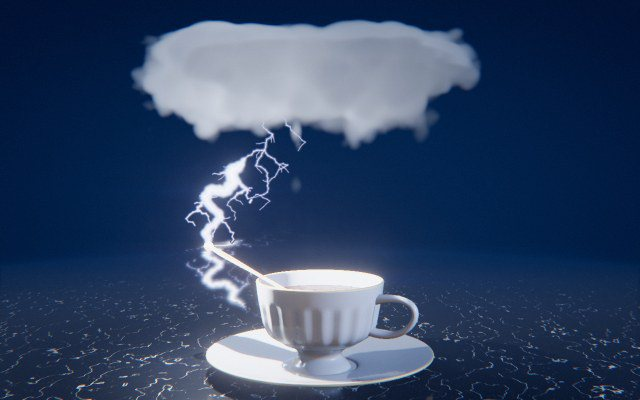
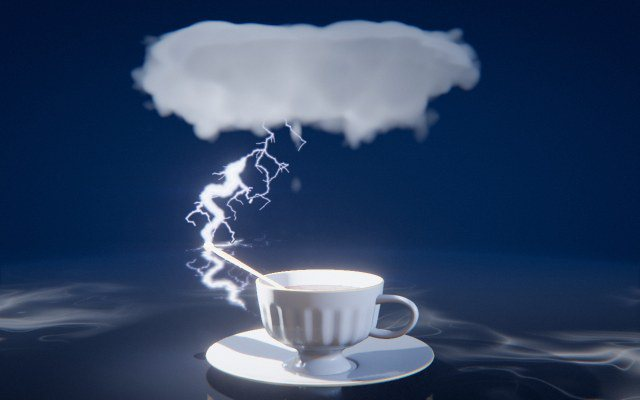
Bolt : supports écrits pour eux, plus de ligne sous le nuage
- sept shaders de table (scene/table.js) : lin à fils irréguliers et plis de
  repassage, marbres à veines en crête, zinc oxydé, laque, natte de jonc,
  ardoise en feuillets, velours ; la table n'évalue que la lampe et l'éclair
- volume : même extinction dans les deux domaines de marche (la couture
  dessinait un trait sous le nuage), légèreté de la colonne dans la densité
- panneau, README, page de documentation, concept et captures à jour

diff --git a/bolt/src/scene/table.js b/bolt/src/scene/table.js
@@ -1,0 +1,177 @@
+// Les supports : sept matières de table écrites pour le plan large et pour le
+// gros plan, chacune avec un relief à plusieurs échelles et ce qui la fait
+// reconnaître — les fils irréguliers et les plis de repassage d'une nappe de
+// lin, les veines d'un marbre (un bruit « en crête » déformé, et non des
+// cellules), l'oxydation et les ronds de verre d'un zinc, les joncs et les
+// liages d'une natte, les feuillets d'une ardoise, le sens du poil d'un
+// velours, la peau d'une laque.
+//
+// Tout est calculé dans le repère du monde (la table ne bouge pas), à partir
+// du volume de bruit commun ; chaque détail s'efface avant la fréquence du
+// pixel (aa), sinon il se replie en moiré au loin. Unité : 1 = 10 cm.
+//
+// Réglages : couleur, seconde couleur et rugosité viennent de la recette
+// (uniformes) ; la nature du support (kind) choisit le shader.
+import * as THREE from 'three/webgpu';
+import {
+  uniform, lights, positionWorld, normalViewGeometry, vec2, vec3, vec4, float, mix, smoothstep, length, fract, floor, sin, cos, abs, exp, step, fwidth, hash, dot, max as tMax, min as tMin,
+} from 'three/tsl';
+import { noise, noise2, fbm, perturb, stableVelocity, G } from '../../../shared/scene/materials.js';
+
+const PI = Math.PI;
+
+export const TABLE_KINDS = ['cloth', 'velvet', 'marble', 'metal', 'lacquer', 'mat', 'slate'];
+
+export function tableUniforms(fin) {
+  return { color: uniform(new THREE.Color(fin.color)), color2: uniform(new THREE.Color(fin.color2)), rough: uniform(fin.rough) };
+}
+export function applyTable(U, fin) { U.color.value.set(fin.color); U.color2.value.set(fin.color2); U.rough.value = fin.rough; }
+
+// lightsOf : les lumières que la table évalue (la lampe et l'éclair ; pas le contre-jour, qui laverait les ombres)
+export function buildTableMaterial(kind, U, lightsOf = null) {
+  const m = new THREE.MeshPhysicalNodeMaterial({ side: THREE.DoubleSide });
+  const p = positionWorld.xz, p3 = vec3(positionWorld.x, positionWorld.z, 0.37);
+  const pf = length(fwidth(p)).toVar('tableFootprint');
+  const aa = (freq) => smoothstep(0.6, 0.15, pf.mul(freq)); // fréquence (cycles / unité) → atténuation
+  const N0 = normalViewGeometry;
+  // hachage d'une cellule 2D
+  const h21 = (c, s = 0) => hash(c.x.mul(127.1).add(c.y.mul(311.7)).add(s));
+  // Une valeur par fil (ou par jonc, par trait de brosse), qui varie lentement
+  // le long du fil. Le volume de bruit est périodique (4 cellules) : lu
+  // directement à 46 fils par unité, il répéterait le même motif tous les
+  // quatre fils. Chaque fil lit donc le bruit à un décalage tiré de son rang.
+  const thread = (across, along, salt) => { const id = floor(across); return noise(vec3(along.add(hash(id.add(salt)).mul(37)), hash(id.add(salt + 1)).mul(4), salt * 0.31)); };
+  // semis : un point par cellule, à une place tirée ; renvoie 1 au cœur du point
+  const speck = (f, r, salt) => { const q = p.mul(f), c = floor(q); return smoothstep(r, r * 0.3, length(fract(q).sub(vec2(h21(c, salt), h21(c, salt + 2)).mul(0.6).add(0.2)))); };
+  let color = vec3(U.color), rough = float(U.rough), metal = float(0), H = float(0);
+
+  switch (kind) {
+    case 'cloth': {
+      // Lin : armure toile de 2,5 fils au millimètre, fils irréguliers (les
+      // « flammes » du lin, visibles de loin en traits plus clairs ou plus
+      // sombres dans les deux sens), plis de repassage, et les ondulations
+      // molles d'une nappe posée.
+      const F = 250;
+      const u = p.x.mul(F), v = p.y.mul(F);
+      const over = step(0.5, fract(floor(u).add(floor(v)).mul(0.5))); // dessus / dessous
+      const warp = sin(fract(u).mul(PI)), weft = sin(fract(v).mul(PI));
+      const weave = mix(warp.mul(weft.mul(0.4).add(0.6)), weft.mul(warp.mul(0.4).add(0.6)), over);
+      // flammes : chaque fil a son épaisseur, qui varie lentement le long du fil
+      const s1 = thread(p.y.mul(46), p.x.mul(0.9), 3), s2 = thread(p.x.mul(46), p.y.mul(0.9), 11);
+      const t1 = thread(p.y.mul(17), p.x.mul(0.5), 21), t2 = thread(p.x.mul(17), p.y.mul(0.5), 27);
+      const slub = s1.max(0).pow(2).add(s2.max(0).pow(2)).mul(aa(46)).add(t1.add(t2).mul(0.35).mul(aa(17)));
+      const tone = fbm(p3.mul(0.6), 3); // nuances larges (le tissu n'est jamais uni)
+      // plis de repassage : deux arêtes douces qui se croisent, hors du centre
+      const crease = (d) => exp(d.div(0.035).pow2().negate());
+      const cr = crease(p.x.sub(1.35)).add(crease(p.y.add(1.6))).mul(0.5);
+      const fold = fbm(p3.mul(0.33).add(4.1), 3);
+      H = weave.mul(0.0035).mul(aa(F)).add(slub.mul(0.006)).add(cr.mul(0.03)).add(fold.mul(0.07));
+      color = mix(U.color, U.color2, weave.oneMinus().mul(0.55).mul(aa(F))).mul(slub.mul(0.2).add(1)).mul(tone.mul(0.09).add(1)).mul(cr.mul(0.08).add(1));
+      rough = U.rough;
+      m.sheenNode = vec3(1).mul(0.3); m.sheenRoughnessNode = float(0.7);
+      break;
+    }
+    case 'velvet': {
+      // Velours : le poil couché par endroits (les traces de main), qui change
+      // le lustre plus que la teinte ; grain du poil au pixel.
+      const nap = fbm(p3.mul(0.7), 3), stroke = noise(vec3(p.x.mul(0.5).add(p.y.mul(1.6)), p.y.mul(0.3), 2.7));
+      const lay = smoothstep(-0.5, 0.6, nap.mul(0.6).add(stroke.mul(0.5)));
+      const grain = noise2(p3.mul(180)).mul(aa(180));
+      H = grain.mul(0.002).add(lay.mul(0.006));
+      color = mix(U.color2, U.color, lay.mul(0.8).add(0.2)).mul(grain.mul(0.08).add(1));
+      rough = float(0.95);
+      m.sheenNode = mix(vec3(0.3), vec3(0.6), lay).mul(vec3(0.82, 0.86, 1)); m.sheenRoughnessNode = mix(float(0.55), float(0.3), lay);
+      break;
+    }
+    case 'marble': {
+      // Marbre : des nuages de fond, de grandes veines (un bruit « en crête »,
+      // 1 − |n|, élevé à une puissance : des lignes fines et continues ; la
+      // lecture est déformée par un fBm : elles serpentent et se rejoignent),
+      // des veinules, des cristaux à peine visibles, un poli qui n'est pas
+      // parfait (les veines sont un peu plus mates).
+      const wq = vec3(fbm(p3.mul(0.55).add(3.3), 3), fbm(p3.mul(0.55).add(8.7), 3), 0).mul(0.9);
+      const q = p3.mul(0.42).add(wq);
+      const ridge = (n) => abs(n).oneMinus();
+      const big = ridge(noise(q)).pow(11), mid = ridge(noise2(q.mul(2.1).add(1.7))).pow(18).mul(0.7), fine = ridge(noise(q.mul(5.3).add(4.2))).pow(30).mul(0.3).mul(aa(6));
+      // (les veines s'interrompent : elles ne courent pas d'un bord à l'autre)
+      const gate = smoothstep(-0.15, 0.3, fbm(p3.mul(0.3).add(11), 2));
+      const vein = big.add(mid).add(fine).mul(gate).clamp(0, 1);
+      const cloud = fbm(p3.mul(0.9).add(wq), 3).mul(0.5).add(0.5);
+      const xtal = noise2(p3.mul(140)).mul(0.5).add(0.5).mul(aa(140));
+      color = mix(U.color.mul(cloud.mul(0.22).add(0.82)), U.color2, vein.pow(0.7).mul(0.95)).mul(xtal.mul(0.05).add(0.975));
+      rough = U.rough.add(vein.mul(0.12)).add(cloud.mul(0.05));
+      H = vein.mul(-0.0012);
+      // (pas de vernis : un second lobe spéculaire sur une surface plein écran coûtait 1 ms ; le poli est dans la rugosité)
+      break;
+    }
+    case 'metal': {
+      // Zinc de comptoir : une oxydation en plaques larges, le brossage du
+      // laminage, des rayures courtes en tous sens, et les ronds laissés par
+      // les verres.
+      const ox = fbm(p3.mul(0.75), 3), ox2 = noise2(p3.mul(2.3).add(5));
+      const brush = thread(p.y.mul(170), p.x.mul(1.5), 5).mul(aa(170));
+      // rayures : dans chaque cellule, un trait court d'orientation tirée
+      const scratch = (f, salt) => { const c = floor(p.mul(f)), fr = fract(p.mul(f)).sub(0.5), a = h21(c, salt).mul(PI); const d = fr.x.mul(sin(a)).sub(fr.y.mul(cos(a))), t = fr.x.mul(cos(a)).add(fr.y.mul(sin(a))); return exp(d.mul(f * 0.9).div(f * 0.012).pow2().negate()).mul(smoothstep(0.42, 0.2, abs(t))).mul(step(0.55, h21(c, salt + 3))); };
+      const sc = scratch(1.7, 1).add(scratch(3.1, 7).mul(0.7)).mul(aa(60));
+      // ronds de verre : un anneau par cellule de 1,9, une fois sur deux
+      const rc = p.mul(1 / 1.9), ci = floor(rc), rf = fract(rc).sub(vec2(h21(ci, 11), h21(ci, 13)).mul(0.5).add(0.25));
+      const rr = h21(ci, 17).mul(0.05).add(0.16);
+      const ring = exp(length(rf).sub(rr).div(0.007).pow2().negate()).mul(step(0.5, h21(ci, 19))).mul(noise(p3.mul(9)).mul(0.5).add(0.6).clamp(0, 1));
+      color = U.color.mul(ox.mul(0.38).add(ox2.mul(0.16)).add(0.9)).mul(ring.mul(0.4).oneMinus()).mul(sc.mul(0.25).add(1));
+      rough = U.rough.add(ox.mul(0.22)).add(ox2.mul(0.1)).add(ring.mul(0.25)).sub(sc.mul(0.2)).add(brush.mul(0.05)).clamp(0.12, 1);
+      metal = float(1);
+      H = brush.mul(0.0006).sub(sc.mul(0.0012));
+      break;
+    }
+    case 'lacquer': {
+      // Laque : une peau tendue sous un vernis profond. Très légère « peau
+      // d'orange », traces du polissage en arcs, poussières d'or rares.
+      const peel = noise(p3.mul(26)).add(noise2(p3.yxz.mul(19.3))).mul(0.5).mul(aa(26)), wave = fbm(p3.mul(1.1), 2);
+      const polish = sin(length(p.sub(vec2(2.2, -3))).mul(150)).mul(aa(150 / PI));
+      const gold = speck(34, 0.09, 41).mul(step(0.62, noise2(p3.mul(3.1)).mul(0.5).add(0.5).add(wave.mul(0.35)))).mul(aa(34));
+      color = mix(U.color.mul(wave.mul(0.1).add(1)), U.color2, gold);
+      metal = gold;
+      rough = mix(U.rough, float(0.3), gold).add(polish.mul(0.015)).add(wave.mul(0.04));
+      H = peel.mul(0.0007).add(wave.mul(0.004)).add(gold.mul(0.001));
+      break;
+    }
+    case 'mat': {
+      // Natte de jonc (tatami) : des joncs ronds serrés, 9 au centimètre,
+      // chacun de sa teinte, pincés tous les 15 mm par une chaîne ; d'un rang
+      // de chaîne à l'autre le pincement alterne.
+      const F = 90, W = 6.6;
+      const j = p.y.mul(F), id = floor(j), along = p.x.mul(W);
+      const bind = fract(along.add(fract(id.mul(0.5)))).sub(0.5); // (un jonc sur deux est pincé à mi-chemin)
+      const pinch = exp(bind.div(0.11).pow2().negate());
+      const round = sin(fract(j).mul(PI));
+      const tint = hash(id.add(31)).sub(0.5), streak = thread(j, p.x.mul(7), 9);
+      const worn = fbm(p3.mul(0.5), 3);
+      H = round.mul(pinch.mul(0.55).oneMinus()).mul(0.006).mul(aa(F)).add(pinch.mul(-0.002).mul(aa(W * 2)));
+      color = mix(U.color2, U.color, round.mul(0.6).add(0.4).mul(aa(F)).add(aa(F).oneMinus().mul(0.75))).mul(tint.mul(0.16).mul(aa(F)).add(1)).mul(streak.mul(0.06).add(1)).mul(pinch.mul(0.12).mul(aa(W * 2)).oneMinus()).mul(worn.mul(0.07).add(1));
+      rough = U.rough.sub(round.mul(0.12).mul(aa(F)));
+      m.sheenNode = vec3(0.9, 0.85, 0.6).mul(0.25); m.sheenRoughnessNode = float(0.5);
+      break;
+    }
+    default: { // 'slate'
+      // Ardoise : des feuillets (le clivage laisse des marches de quelques
+      // dixièmes de millimètre aux bords déchiquetés), un grain fin, des
+      // paillettes de mica, des traces plus claires.
+      const lay = fbm(p3.mul(0.9), 4).mul(3.2);
+      const stepv = floor(lay), fr = fract(lay), edge = smoothstep(0, 0.07, fr).mul(smoothstep(1, 0.93, fr)).oneMinus();
+      const grain = noise(p3.mul(120)).mul(aa(120)), striae = thread(p.y.mul(40).add(p.x.mul(3)), p.x.mul(3), 13).mul(aa(40));
+      const mica = speck(90, 0.05, 51).mul(step(0.6, h21(floor(p.mul(90)), 53))).mul(aa(90));
+      const chalk = smoothstep(0.25, 0.6, fbm(p3.mul(1.7).add(7), 3));
+      H = stepv.add(smoothstep(0, 0.07, fr)).mul(0.008).add(grain.mul(0.0008)).add(striae.mul(0.0012));
+      color = mix(U.color, U.color2, chalk.mul(0.35).add(hash(stepv.add(5)).mul(0.25))).mul(edge.mul(0.45).oneMinus()).mul(grain.mul(0.06).add(1)).add(mica.mul(0.25));
+      rough = U.rough.sub(mica.mul(0.5)).add(chalk.mul(0.08)).clamp(0.15, 1);
+      break;
+    }
+  }
+  m.colorNode = vec4(color, 1);
+  m.roughnessNode = rough.clamp(0.04, 1);
+  m.metalnessNode = metal;
+  m.normalNode = perturb(H.mul(G.microDetail), N0);
+  m.mrtNode = stableVelocity();
+  if (lightsOf) m.lightsNode = lights(lightsOf);
+  return m;
+}

diff --git a/bolt/explainer.html b/bolt/explainer.html
@@ -89,8 +89,9 @@
         <div class="note trap"><b>Un jet laminaire perce tout</b><p>Sans mélange, le panache simulé restait un jet étroit et chaud : il traversait la couche stable et tapait le plafond dès la première bouffée. Un vrai panache est turbulent, il entraîne l’air ambiant, s’élargit en cône et se dilue. Une diffusion ajoutée aux vitesses et à la flottabilité (viscosité de tourbillon, coefficient 0,2 par pas) joue ce rôle. Une inversion très raide en guise de plafond avait l’effet contraire : l’air qui la touchait devenait si lourd qu’il retombait jusqu’à la tasse. Le plafond est maintenant le haut du domaine, fermé.</p></div>
         <p>Le schéma est celui de Stam : advection semi-lagrangienne, puis projection de la vitesse sur un champ sans divergence par 36 passes de Gauss-Seidel sur le laplacien cylindrique. La grille fait 64 cellules de large et 56 à 88 de haut. Les 576 pas sont enregistrés en 72 images de 8 bits, dans une texture à trois dimensions (rayon, hauteur, temps) : le filtrage trilinéaire du processeur graphique interpole dans le temps.</p>
         <figure id="fig-nuage"><figcaption><b>La simulation, telle qu’elle est enregistrée.</b> Le curseur parcourt les 72 images du traceur, le demi-plan (r, z) complété par symétrie. Le trait pointillé est le niveau de condensation. La démo lance <code>simulatePlume()</code> dans le worker du projet (une à deux secondes) ; la scène y ajoute les volutes et les bourgeons.</figcaption></figure>
-        <p>Une simulation axisymétrique est trop lisse : rendue telle quelle, elle donnait un abat-jour. Le rendu lui rend son désordre sans toucher à sa dynamique. Les coordonnées de lecture sont déformées par un bruit qui dérive lentement, ce qui tord la colonne en volutes. Puis le champ sert d’enveloppe à une érosion par deux échelles de bruit de Worley inversé, d’après la méthode de Schneider pour <em>Horizon Zero Dawn</em> : ce sont les bourgeons. La colonne et le nuage passent par la même fonction de densité, il n’y a pas de couture entre eux. Sous \(z = 1\) le traceur n’est visible qu’à 30 % : la base du nuage est plate.</p>
+        <p>Une simulation axisymétrique est trop lisse : rendue telle quelle, elle donnait un abat-jour. Le rendu lui rend son désordre sans toucher à sa dynamique. Les coordonnées de lecture sont déformées par un bruit qui dérive lentement, ce qui tord la colonne en volutes. Puis le champ sert d’enveloppe à une érosion par deux échelles de bruit de Worley inversé, d’après la méthode de Schneider pour <em>Horizon Zero Dawn</em> : ce sont les bourgeons. La colonne et le nuage passent par la même fonction de densité. Sous \(z = 1\) le traceur n’est visible qu’à 30 % : la base du nuage est plate.</p>
         <p>Le rendu est une marche de rayon dans la chaîne d’image, 12 pas dans la colonne et 36 dans le nuage, avec un départ décalé par pixel et par image que l’anticrénelage temporel lisse. Chaque pas dense prend deux prélèvements allégés vers la lampe pour l’ombre propre. Les éclairs sont six sources ponctuelles placées dans le volume, d’intensité \(I / (1 + 14\,d^2)\).</p>
+        <div class="note trap"><b>Une ligne sous le nuage</b><p>La marche de rayon se fait en deux domaines, la colonne puis le nuage. La colonne avait un coefficient d’extinction plus faible, pour paraître plus légère : à la frontière des deux domaines, l’opacité changeait d’un coup et dessinait un trait horizontal dans la vapeur. Les deux marches ont maintenant le même coefficient, et la légèreté de la colonne est dans la densité, qui varie continûment avec la hauteur.</p></div>
         <div class="note check"><b>Ce que les tests affirment</b><p>La tête du panache ne redescend pas pendant la montée et atteint la base du nuage en moins d’un tiers du film. La masse au-dessus du niveau de condensation ne fait que croître, et pèse à la fin plus de six fois celle de la colonne. La relecture ne change d’image brusquement qu’à l’instant où l’averse a tout effacé.</p></div>
       </section>
 
@@ -117,6 +118,8 @@
         <span class="src">src/scene/stage.js · update()</span>
         <p>Un éclair qui ne change rien à la lumière de la pièce est un autocollant. À la jonction, un projecteur à ombres s’allume sur le canal, au tiers bas, toujours à plus de 4 cm au-dessus du récipient : la tasse jette une ombre dure sur la nappe, et cette ombre tourne quand un arc suivant emprunte un autre canal. La position du projecteur est la moyenne des canaux, pondérée par leurs impulsions. Elle glisse d’un arc à l’autre sans sauter.</p>
         <p>Son intensité suit la somme des impulsions, multipliée par 150 candelas et par un facteur qui baisse dans les scènes claires. Le thé reçoit de chaque impact un anneau qui s’éloigne à 0,55 unité par seconde et s’amortit en 1,4 s. La pluie y ajoute ses ronds, tirés sur une grille de cellules.</p>
+        <p>La table occupe la moitié de l’image et porte l’échelle de la scène. Chacun des sept supports a son shader (<code>src/scene/table.js</code>) : les fils irréguliers et les plis de repassage d’une nappe de lin, les veines d’un marbre, l’oxydation et les ronds de verre d’un zinc, les joncs pincés d’une natte, les feuillets d’une ardoise. Les veines sont un bruit « en crête », \(1 - |n|\) élevé à une puissance de 11 à 30, lu à travers une déformation : des lignes fines qui serpentent, au lieu des cellules d’un motif de Voronoï.</p>
+        <div class="note trap"><b>Quatre fils, puis les mêmes quatre</b><p>Le volume de bruit commun aux projets se répète toutes les quatre cellules. Lu à 46 fils par unité pour donner à chaque fil son épaisseur, il rendait le même motif tous les quatre fils, soit une rayure régulière. Chaque fil lit donc le bruit à un décalage tiré de son rang.</p></div>
       </section>
 
       <section id="budget">
@@ -128,13 +131,13 @@
             <tr><td>Éclair : croissance et segments (80 à 440 sites)</td><td>worker</td><td class="num">2 à 30 ms</td></tr>
             <tr><td>Panache : 576 pas sur 64 × 68 cellules, 72 images</td><td>worker</td><td class="num">1,3 à 1,6 s</td></tr>
             <tr><td>Pipelines compilées sous l’écran de chargement</td><td>GPU</td><td class="num">42</td></tr>
-            <tr><td>Image, qualité Haute, 1920 × 1080</td><td>GPU</td><td class="num">14,4 ms</td></tr>
+            <tr><td>Image, qualité Haute, 1920 × 1080</td><td>GPU</td><td class="num">14,2 à 18,8 ms selon l’humeur</td></tr>
             <tr><td>Image, version légère, 1280 × 720</td><td>GPU</td><td class="num">5,2 ms</td></tr>
             <tr><td>Marche du nuage</td><td>fragment</td><td class="num">36 + 12 pas (14 + 6 en version légère)</td></tr>
             <tr><td>Tests</td><td>Node</td><td class="num">32</td></tr>
           </tbody>
         </table></div>
-        <p>Mesures prises sur un portable Apple Silicon, dans le panneau de navigateur intégré. Le temps d’image va de 13,8 à 14,4 ms selon l’instant. La version légère n’a pas été essayée sur un téléphone.</p>
+        <p>Mesures prises sur un portable Apple Silicon, dans le panneau de navigateur intégré. Le temps d’image dépend de l’humeur : 15,1 ms pour la scène d’ouverture, 17,3 et 18,8 ms pour Comptoir et Laque, au-dessus du budget de 16 ms, sans cause identifiée. La version légère n’a pas été essayée sur un téléphone.</p>
       </section>
     </article>
 

diff --git a/bolt/src/recipe.js b/bolt/src/recipe.js
@@ -54,16 +54,16 @@ export const BODIES = {
 };
 export const METALS = { argent: SILVER, vermeil: VERMEIL, inox: STEEL, fonte: IRON };
 export const TABLES = {
-  lin: { label: 'Nappe de lin', ...fin('carbonMatte', { color: '#bfbcb3', color2: '#a39e93', rough: 0.96, aniso: 0, bump: 0.5, scale: 2.2, sheen: 0.25, sheenColor: '#ffffff', sheenRough: 0.8 }), family: 'textile' },
-  linBleu: { label: 'Lin bleu', ...fin('carbonMatte', { color: '#8fa3b5', color2: '#74889b', rough: 0.96, aniso: 0, bump: 0.5, scale: 2.2, sheen: 0.25, sheenColor: '#e8f0ff', sheenRough: 0.8 }), family: 'textile' },
-  velours: { label: 'Velours noir', ...fin('velvetNight', { color: '#0d0d0f', color2: '#060607', sheenColor: '#9aa0b0', sheen: 0.7, scale: 3 }), family: 'textile' },
-  zinc: { label: 'Zinc', ...fin('brushedSteel', { color: '#8f949a', rough: 0.5, aniso: 0.3, bump: 0.3, scale: 0.6, smudge: 0.15 }), family: 'métal' },
-  natte: { label: 'Natte tressée', ...fin('carbonMatte', { color: '#c9c092', color2: '#a89c6a', rough: 0.9, aniso: 0, bump: 0.9, scale: 0.55 }), family: 'textile' },
-  laque: { label: 'Plateau de laque', ...fin('whiteCeramic', { color: '#8e1a13', rough: 0.5, clearcoat: 0.25, ccRough: 0.4, smudge: 0.2 }), family: 'laque' },
-  laqueNoire: { label: 'Laque noire', ...fin('blackCeramic', { color: '#0e0c0d', rough: 0.5, clearcoat: 0.25, ccRough: 0.4, smudge: 0.2 }), family: 'laque' },
-  marbre: { label: 'Marbre de Carrare', ...fin('marble', { rough: 0.3, scale: 1.1, clearcoat: 0.4, ccRough: 0.15 }), family: 'pierre' },
-  marbreNoir: { label: 'Marbre noir', ...fin('marbleNoir', { rough: 0.3, scale: 1.2, clearcoat: 0.4, ccRough: 0.15 }), family: 'pierre' },
-  ardoise: { label: 'Ardoise', ...fin('basalt', { color: '#3a3f47', color2: '#565c66', rough: 0.8, bump: 0.5, scale: 1.6 }), family: 'pierre' },
+  lin: { label: 'Nappe de lin', ...fin('carbonMatte', { color: '#bfbcb3', color2: '#a39e93', rough: 0.96, aniso: 0, bump: 0.5, scale: 2.2, sheen: 0.25, sheenColor: '#ffffff', sheenRough: 0.8 }), kind: 'cloth', family: 'textile' },
+  linBleu: { label: 'Lin bleu', ...fin('carbonMatte', { color: '#8fa3b5', color2: '#74889b', rough: 0.96, aniso: 0, bump: 0.5, scale: 2.2, sheen: 0.25, sheenColor: '#e8f0ff', sheenRough: 0.8 }), kind: 'cloth', family: 'textile' },
+  velours: { label: 'Velours noir', ...fin('velvetNight', { color: '#0d0d0f', color2: '#060607', sheenColor: '#9aa0b0', sheen: 0.7, scale: 3 }), kind: 'velvet', family: 'textile' },
+  zinc: { label: 'Zinc', ...fin('brushedSteel', { color: '#70757b', rough: 0.5, aniso: 0.3, bump: 0.3, scale: 0.6, smudge: 0.15 }), kind: 'metal', family: 'métal' },
+  natte: { label: 'Natte tressée', ...fin('carbonMatte', { color: '#c9c092', color2: '#a89c6a', rough: 0.9, aniso: 0, bump: 0.9, scale: 0.55 }), kind: 'mat', family: 'textile' },
+  laque: { label: 'Plateau de laque', ...fin('whiteCeramic', { color: '#8e1a13', color2: '#ffe29d', rough: 0.3, clearcoat: 0.25, ccRough: 0.4, smudge: 0.2 }), kind: 'lacquer', family: 'laque' },
+  laqueNoire: { label: 'Laque noire', ...fin('blackCeramic', { color: '#0e0c0d', color2: '#ffe29d', rough: 0.3, clearcoat: 0.25, ccRough: 0.4, smudge: 0.2 }), kind: 'lacquer', family: 'laque' },
+  marbre: { label: 'Marbre de Carrare', ...fin('marble', { color: '#e4e1db', color2: '#53565e', rough: 0.18 }), kind: 'marble', family: 'pierre' },
+  marbreNoir: { label: 'Marbre noir', ...fin('marbleNoir', { color: '#131316', color2: '#d9d2c4', rough: 0.16 }), kind: 'marble', family: 'pierre' },
+  ardoise: { label: 'Ardoise', ...fin('basalt', { color: '#3a3f47', color2: '#565c66', rough: 0.8, bump: 0.5, scale: 1.6 }), kind: 'slate', family: 'pierre' },
 };
 export const TEAS = { noir: '#3d1508', vert: '#5f6a1c', menthe: '#7a6a1e', rooibos: '#5a1408', lait: '#b08a62', matcha: '#6f8a2e' };
 
@@ -266,5 +266,6 @@ export function layout(R, meta) {
 export function upgrade(R) {
   const D = generate(R.seed, { mood: R.mood, family: R.vessel?.family, variant: R.vessel?.variant });
   for (const k of Object.keys(D)) if (R[k] === undefined) R[k] = D[k];
+  if (R.table && !R.table.finish.kind) R.table.finish.kind = TABLES[R.table.key]?.kind ?? 'cloth';
   return R;
 }

diff --git a/bolt/src/app/ui.js b/bolt/src/app/ui.js
@@ -82,7 +82,7 @@ export function createUI({ recipe: getRecipe, render, on, moods }) {
     add(fVessel, pick, 'body', opts(BODIES)).name('Matière').onChange((k) => { R.vessel.body = k; R.finish.body = structuredClone(BODIES[k]); on.finishChanged(); build(); });
     add(fVessel, pick, 'metal', opts(METALS)).name('Métal').onChange((k) => { R.vessel.metal = k; R.finish.metal = { ...METALS[k] }; on.finishChanged(); build(); });
     add(fVessel, pick, 'table', opts(TABLES)).name('Support').onChange((k) => { R.table.key = k; R.table.finish = { ...TABLES[k] }; on.finishChanged(); build(); });
-    for (const [F, label] of [[R.finish.body.outer, 'Face externe'], [R.finish.body.inner, 'Face interne'], [R.finish.body.edge, 'Lèvre'], [R.finish.metal, 'Métal'], [R.table.finish, 'Support']]) {
+    for (const [F, label] of [[R.finish.body.outer, 'Face externe'], [R.finish.body.inner, 'Face interne'], [R.finish.body.edge, 'Lèvre'], [R.finish.metal, 'Métal']]) {
       const fs = fVessel.addFolder(`${label} · ${F.label}`).close();
       folders.push(fs);
       const pk = { preset: F.preset };
@@ -92,10 +92,15 @@ export function createUI({ recipe: getRecipe, render, on, moods }) {
       for (const [k, l, a, b, st] of FIN) fs.add(F, k, a, b, st).name(l).onChange(() => on.finishChanged());
     }
 
+    // (le support a son propre shader : couleur, seconde couleur, rugosité)
+    addC(fVessel, R.table.finish, 'color').name('Support : couleur').onChange(() => on.finishChanged());
+    addC(fVessel, R.table.finish, 'color2').name('Support : veines, fils').onChange(() => on.finishChanged());
+    add(fVessel, R.table.finish, 'rough', 0.04, 1, 0.01).name('Support : rugosité').onChange(() => on.finishChanged());
+
     const K = R.cloud;
     add(fCloud, K, 'radius', 0.5, 1.6, 0.01).name('Rayon').onChange(ch);
-    add(fCloud, K, 'height', 0.4, 1.4, 0.01).name('Hauteur').onChange(ch);
-    add(fCloud, K, 'anvil', 0, 1.3, 0.01).name('Enclume').onChange(ch);
+    add(fCloud, K, 'height', 0.4, 1.4, 0.01).name('Hauteur (plafond)').onFinishChange(re);
+    add(fCloud, K, 'puffs', 4, 12, 1).name('Bouffées').onFinishChange(re);
     add(fCloud, K, 'density', 0.4, 1.6, 0.01).name('Densité').onChange(ch);
     add(fCloud, K, 'gap', 0.5, 1.4, 0.01).name('Hauteur de la base').onFinishChange(re);
     add(fCloud, K, 'seed', 0, 4, 0.01).name('Tirage du bruit').onChange(ch);

diff --git a/bolt/src/scene/stage.js b/bolt/src/scene/stage.js
@@ -15,6 +15,7 @@ import { stateAt, PHYS } from '../film.js';
 import { layout } from '../recipe.js';
 import { createCloud, N_LIGHTS } from './cloud.js';
 import { createLightning, MAX_STROKES } from './lightning.js';
+import { buildTableMaterial, tableUniforms, applyTable } from './table.js';
 
 const SHADOW = { mobile: 1024, low: 1024, medium: 2048, high: 2048, ultra: 4096 };
 
@@ -126,13 +127,17 @@ export function createStage(scene, gen, { lite = false } = {}) {
         pending--;
       });
     }).catch((e) => { console.error(e); pending = -1; });
-    // support
-    const tf = tri(R.table.finish), tk = signature(tf);
-    if (!tableFin || tableFin.key !== tk) {
+    // support : une matière écrite pour lui (scene/table.js) ; sa nature choisit le shader
+    setTable();
+  }
+
+  function setTable() {
+    const tf = R.table.finish, kind = tf.kind ?? 'cloth';
+    if (!tableFin || tableFin.key !== kind) {
       table.material?.dispose?.();
-      tableFin = { key: tk, U: finishU(tf), M: { seedOff: uniform(new THREE.Vector3(9, 9, 9)) } };
-      table.material = buildPieceMaterial(tf, tableFin.U, tableFin.M);
-    } else for (const k of ['outer', 'inner', 'edge']) applyFinish(tableFin.U[k], tf[k]);
+      tableFin = { key: kind, U: tableUniforms(tf) };
+      table.material = buildTableMaterial(kind, tableFin.U, [key, flash]);
+    } else applyTable(tableFin.U, tf);
   }
 
   // la pluie : des traits qui tombent de la base du nuage dans le récipient
@@ -175,9 +180,7 @@ export function createStage(scene, gen, { lite = false } = {}) {
       if (signature(f) !== s.key) { const old = s.mesh.material; s.f = f; s.U = finishU(f); s.key = signature(f); s.mesh.material = buildPieceMaterial(f, s.U, { seedOff: uniform(new THREE.Vector3(1.3, 2.1, 0.5)) }); old.dispose(); }
       else for (const k of ['outer', 'inner', 'edge']) applyFinish(s.U[k], f[k]);
     }
-    const tf = tri(R.table.finish);
-    if (signature(tf) !== tableFin.key) { table.material.dispose(); tableFin = { key: signature(tf), U: finishU(tf), M: { seedOff: uniform(new THREE.Vector3(9, 9, 9)) } }; table.material = buildPieceMaterial(tf, tableFin.U, tableFin.M); }
-    else for (const k of ['outer', 'inner', 'edge']) applyFinish(tableFin.U[k], tf[k]);
+    setTable();
   }
 
   const place = (l, az, el, r, target) => {

diff --git a/bolt/src/scene/cloud.js b/bolt/src/scene/cloud.js
@@ -90,7 +90,11 @@ export function createCloud() {
     const d = smoothstep(0, 0.22, env.sub(0.2).mul(1.25).add(n.sub(0.72).mul(er)).sub(col.mul(0.1)).sub(rim.mul(0.3)));
     // condensation : sous le niveau z = 1, la vapeur ne se voit qu'en partie
     const cond = smoothstep(0.8, 1.03, z).mul(0.7).add(0.3);
-    return d.mul(cond).mul(U.dens).mul(U.shred.oneMinus().pow(0.6));
+    // (la colonne est plus légère que le nuage : c'est dans la densité, continue
+    // en hauteur — et non dans le coefficient d'extinction de chaque marche, qui
+    // faisait une ligne à leur couture)
+    const light = smoothstep(0.5, 1.0, z).mul(0.45).add(0.55);
+    return d.mul(cond).mul(light).mul(U.dens).mul(U.shred.oneMinus().pow(0.6));
   };
 
   // intersection rayon / boîte alignée (bmin, bmax) → vec2(t0, t1)
@@ -158,10 +162,10 @@ export function createCloud() {
     // deux domaines de marche pour un même champ : la colonne (étroite, sous le
     // nuage), puis le nuage (large). La couture est à 0,72 de la montée, dans
     // la colonne : les deux côtés lisent la même densité.
-    const top = U.steamP.y.add(U.simSize.y.mul(U.span)).add(0.03), cut = U.steamP.y.add(U.span.mul(0.78));
+    const top = U.steamP.y.add(U.simSize.y.mul(U.span)).add(0.03), cut = U.steamP.y.add(U.span.mul(0.62));
     const rc = U.span.mul(U.kr).mul(0.62).add(0.12);
     const lo = tMin(U.steamP.xz, U.c.xz).sub(rc), hi = tMax(U.steamP.xz, U.c.xz).add(rc);
-    march(vec3(lo.x, U.steamP.y, lo.y), vec3(hi.x, cut, hi.y), NS, 7);
+    march(vec3(lo.x, U.steamP.y, lo.y), vec3(hi.x, cut, hi.y), NS, 13);
     const ext = U.R.mul(1.12);
     march(vec3(U.c.x.sub(ext), cut, U.c.z.sub(ext)), vec3(U.c.x.add(ext), top, U.c.z.add(ext)), N, 13);
     return clamp(col, 0, 1e4);

diff --git a/bolt/README.md b/bolt/README.md
@@ -100,7 +100,7 @@ Un air chauffé à b s'arrête là où l'air ambiant a sa densité, vers z ≈ 1
 
 Le schéma est celui de Stam (« stable fluids ») : advection semi-lagrangienne, projection par 36 passes de Gauss-Seidel sur le laplacien cylindrique, et un mélange turbulent (viscosité de tourbillon, 0,2) sans lequel le jet reste laminaire et perce le plafond. La grille fait 64 × 56 à 88 cellules de 0,025 ; 576 pas, enregistrés en 72 images de 8 bits (la racine carrée du traceur). Le calcul prend 1,3 à 1,6 s dans un worker, sous l'écran de chargement.
 
-`src/scene/cloud.js` relit ces images dans une texture 3D (r, z, temps) ; l'interpolation trilinéaire fait l'interpolation dans le temps. Le rendu est une marche de rayon dans la chaîne d'image, en deux domaines pour un même champ : la colonne (12 pas) et le nuage (36 pas, 14 en mobile). La simulation est lisse et axisymétrique ; le rendu lui rend son désordre sans toucher à sa dynamique. Les coordonnées de lecture sont déformées par un bruit qui dérive (les volutes), puis le champ sert d'enveloppe à une érosion par deux échelles de Worley inversé (les bourgeons, d'après Schneider, 2015), plus forte dans la colonne, sur le pourtour et pendant l'averse. Sous z = 1 le traceur n'est visible qu'à 30 % : la base du nuage est plate. L'éclairage prend deux prélèvements allégés vers la lampe (loi de Beer), une « poudre » qui éteint les voiles minces, et six sources ponctuelles à l'intérieur : le canal de l'éclair et les lueurs de la charge.
+`src/scene/cloud.js` relit ces images dans une texture 3D (r, z, temps) ; l'interpolation trilinéaire fait l'interpolation dans le temps. Le rendu est une marche de rayon dans la chaîne d'image, en deux domaines pour un même champ : la colonne (12 pas) et le nuage (36 pas, 14 en mobile). Les deux marches ont le même coefficient d'extinction ; la légèreté de la colonne est dans la densité, continue en hauteur (un coefficient différent de part et d'autre faisait une ligne à la couture). La simulation est lisse et axisymétrique ; le rendu lui rend son désordre sans toucher à sa dynamique. Les coordonnées de lecture sont déformées par un bruit qui dérive (les volutes), puis le champ sert d'enveloppe à une érosion par deux échelles de Worley inversé (les bourgeons, d'après Schneider, 2015), plus forte dans la colonne, sur le pourtour et pendant l'averse. Sous z = 1 le traceur n'est visible qu'à 30 % : la base du nuage est plate. L'éclairage prend deux prélèvements allégés vers la lampe (loi de Beer), une « poudre » qui éteint les voiles minces, et six sources ponctuelles à l'intérieur : le canal de l'éclair et les lueurs de la charge.
 
 Pour une théière, la source est au bec : l'axe du panache va du bec à l'aplomb du nuage.
 
@@ -116,7 +116,7 @@ Les matières viennent du catalogue commun (`shared/finishes.js`), retouchées d
 
 - **Récipients** : porcelaine à filet d'or ou de platine (la lèvre est le rôle « tranche »), biscuit, céladon craquelé, tenmoku, bleu céleste, tôle émaillée, céramique noire, fonte, laque vermillon, verre.
 - **Métal** : argent, vermeil, inox, fonte.
-- **Supports** : lin, lin bleu, velours noir, zinc, natte tressée, laque rouge ou noire, marbre blanc ou noir, ardoise. La table se relève en gorge loin derrière et se fond dans le mur par la brume : pas d'horizon.
+- **Supports** : sept matières écrites pour eux dans `src/scene/table.js`, dans le repère du monde, chacune avec un relief à plusieurs échelles. **Lin** : armure toile de 2,5 fils au millimètre, fils irréguliers à deux grosseurs (les « flammes », visibles de loin), plis de repassage, ondulations d'une nappe posée. **Velours** : poil couché par endroits, qui change le lustre. **Marbre** (blanc ou noir) : nuages de fond, veines en bruit « en crête » (1 − |n| à la puissance 11 à 30) lu à travers une déformation, interrompues par un masque. **Zinc** : oxydation en plaques, brossage, rayures courtes, ronds de verre. **Laque** (rouge ou noire) : peau d'orange, traces de polissage, poussières d'or. **Natte** : joncs de 1,1 mm pincés tous les 15 mm, pincement alterné. **Ardoise** : feuillets en marches, mica. Le volume de bruit commun est périodique (4 cellules) : chaque fil, jonc ou trait de brosse le lit à un décalage tiré de son rang, sinon le motif se répète tous les quatre fils. Chaque détail s'efface avant la fréquence du pixel. La table n'évalue que la lampe et l'éclair, et se relève en gorge loin derrière pour se fondre dans le mur par la brume : pas d'horizon.
 - **Thé** : une surface qui ride (`liquidMaterial` dans `src/scene/stage.js`) : un anneau part de chaque impact d'arc à 0,55 unité par seconde, et la pluie fait ses ronds sur une grille de cellules.
 
 ## Scène
@@ -155,7 +155,7 @@ Bancs : `tools/try.mjs` (recette → récipient → éclair sur N graines), `too
 
 ## Performances mesurées
 
-Sur un portable Apple Silicon, panneau de navigateur intégré, qualité Haute, 1920 × 1080 (2 Mpx) : 13,8 à 14,4 ms par image à u = 0,2, 0,5, 0,603 et 0,99 (`bench`). 42 pipelines compilées sous l'écran de chargement, aucune après (compteur inchangé après un passage sur sept phases). Raccord de boucle : écart de pose 7·10⁻¹⁰ (`seam`).
+Sur un portable Apple Silicon, panneau de navigateur intégré, qualité Haute, 1920 × 1080 (2 Mpx) : selon l'humeur, 14,2 ms (Cinq heures, lin), 15,1 ms (Heure bleue, marbre noir, la scène d'ouverture), 15,4 ms (Sèvres, marbre) ; deux humeurs dépassent le budget de 16 ms : Comptoir (zinc, en plongée) à 17,3 ms et Laque à 18,8 ms, de façon constante sur la boucle. La cause n'est pas identifiée (elles étaient à 26 et 18,5 ms avant les supports actuels). 42 pipelines compilées sous l'écran de chargement, aucune après (compteur inchangé après un passage sur sept phases). Raccord de boucle : écart de pose 7·10⁻¹⁰ (`seam`).
 
 ## Version mobile
 

diff --git a/bolt/docs/concept.md b/bolt/docs/concept.md
@@ -217,3 +217,5 @@ Trois retours de l'utilisateur, dans l'ordre, et ce qu'ils ont changé.
 2. **« La transition entre la fumée et le nuage n'est pas réaliste », puis « on sent encore trop que la fumée et le nuage sont deux objets séparés ».** Deux essais d'ajustement (panache évasé qui entre dans l'enveloppe du nuage ; densité liée au débit, front qui monte) ont été refusés l'un après l'autre : tant que la vapeur et le nuage étaient deux fonctions, on voyait deux objets. Ils sont devenus un seul fluide simulé (`gen/plume.js` : panache de Boussinesq axisymétrique dans un air stratifié, enregistré puis relu), dont le traceur est tout ce qu'on voit. Leçon : quand une chose doit en devenir une autre, calculer la transformation plutôt que raccorder deux modèles.
 3. **« Il faudrait un scénario qui justifie que la fumée réapparaît dans la boucle. »** La cause est la foudre : elle réchauffe le thé. La cuillère en reste rouge, le thé frémit, et quand l'averse cesse la vapeur repart. Le cycle de l'eau commence donc à u = 0,96, et la boucle se lit : la foudre réchauffe le thé, le thé fait la vapeur, la vapeur fait le nuage, le nuage fait la foudre.
 4. **« Les géométries des objets ne sont pas parfaites, par exemple la partie basse de l'anse. »** L'anse arrivait de biais sur la paroi et sortait de la matière au creux des côtes. Elle quitte maintenant la paroi le long de sa normale, les bouts noyés dans l'épaisseur. La soucoupe a perdu ses côtes, qui la rendaient polygonale.
+5. **« Une ligne de démarcation au milieu de la fumée, juste sous le nuage. »** La couture des deux domaines de marche (extinction différente de part et d'autre). Même coefficient des deux côtés, la légèreté de la colonne passée dans la densité.
+6. **« Les matières, particulièrement les sols, pourraient être plus travaillées. »** Les supports utilisaient les finitions communes (un sergé de carbone recoloré pour le lin, un motif de marbre en cellules). Sept shaders propres au projet (`scene/table.js`), chacun avec ce qui fait reconnaître la matière.
